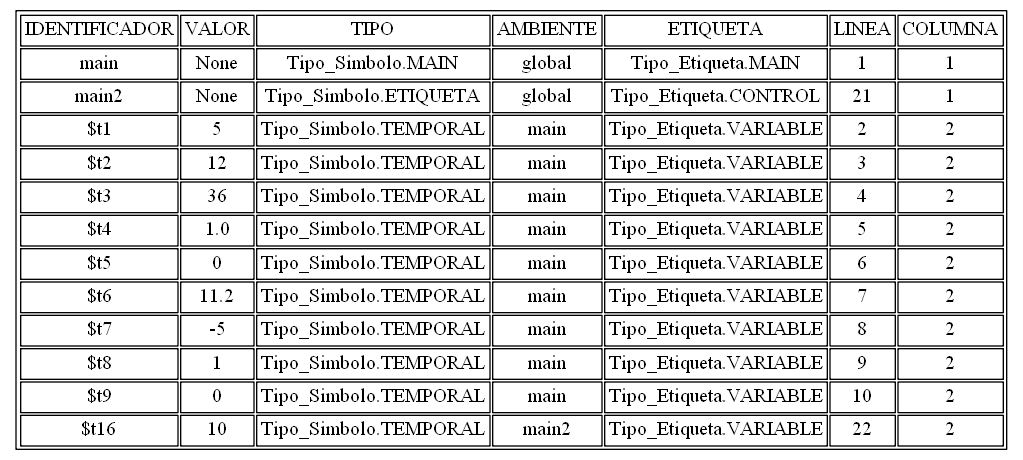
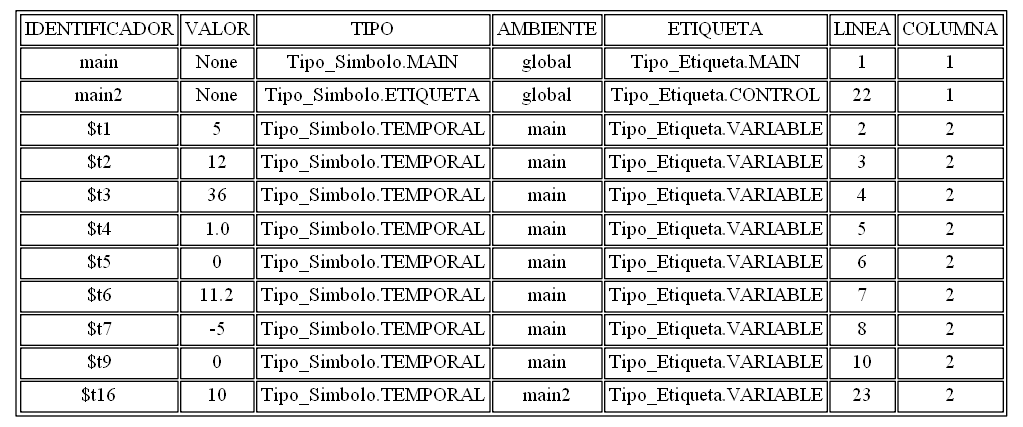
Gramatica 5
unset

diff --git a/Ejecutar.py b/Ejecutar.py
@@ -103,6 +103,7 @@ class Ejecutor(threading.Thread):
             elif isinstance(sentencia, Referencia): self.procesar_referencia(sentencia)
             elif isinstance(sentencia, Goto): exit = self.procesar_goto(sentencia)
             elif isinstance(sentencia, Exit): return True
+            elif isinstance(sentencia, UnSet): self.procesar_unset(sentencia)
             self.ts.graficarSimbolos()
             if exit:
                 return True
@@ -144,6 +145,15 @@ class Ejecutor(threading.Thread):
             self.agregarError("{0} no esta declarad".format(sentencia.id),sentencia.line,sentencia.column)
 
         return False
+    
+    def procesar_unset(self, sentencia):
+        try:
+            if self.ts.existe(sentencia.id):
+                self.ts.delete(sentencia.id)
+            else:
+                self.agregarError("{0} no esta declarad".format(sentencia.id),sentencia.line,sentencia.column)     
+        except:
+            self.agregarError("Error al eliminar",sentencia.line,sentencia.column)
 
 
     def procesar_asignacion(self, sentencia):

diff --git a/Gramatica.py b/Gramatica.py
@@ -312,6 +312,7 @@ def p_sentencia(p):
                     | preferencia
                     | pgoto
                     | pexit
+                    | punset
     '''
     p[0] = p[1]
 
@@ -353,6 +354,16 @@ def p_psalir(p):
     p[0] = Nodo(Exit(p.lineno(1),find_column(p.slice[1])), nodo)
     print('sentencia: pexit; { sentencia = pexit}')
     
+def p_punset(p):
+    'punset  :   UNSET PARIZQ VARIABLE PARDER PYCOMA'
+    nodo = NodoG(getIndex(),"punset",[])
+    nodo.add(NodoG(getIndex(),"unset", None))
+    nodo.add(NodoG(getIndex(),"(", None))
+    nodo.add(NodoG(getIndex(),p[3], None))
+    nodo.add(NodoG(getIndex(),")", None))
+    nodo.add(NodoG(getIndex(),";", None))
+    p[0] = Nodo(UnSet(p[3],p.lineno(1),find_column(p.slice[1])), nodo)
+    print('sentencia: punset; { sentencia = punset}')
     
 
 def p_operaciones(p):

diff --git a/prueba.py b/prueba.py
@@ -90,22 +90,7 @@ while contador <= 100:
        print(contador)
 print("TIEMPO EXCEDIDO DE LECTURA")'''
 
-
-from PyQt5 import QtCore, QtWidgets
-
-class PlainTextEdit(QtWidgets.QPlainTextEdit):
-       def keyPressEvent(self, event):
-              if event.key() == QtCore.Qt.Key_Return:
-                     salida = self.toPlainText()
-                     lineas = salida.split("\n")
-                     print (lineas[len(lineas)-1])
-              if event.key() == QtCore.Qt.Key_Backspace:
-                     print("Backspace pressed")
-              super(PlainTextEdit, self).keyPressEvent(event)
-
-if __name__ == '__main__':
-    import sys
-    app = QtWidgets.QApplication(sys.argv)
-    w = PlainTextEdit()
-    w.show()
-    sys.exit(app.exec_())
+lst = {'1':3,'11':2,'12':4}
+print(lst)
+del lst['1']
+print(lst)

diff --git a/TablaSimbolos.py b/TablaSimbolos.py
@@ -67,6 +67,8 @@ class TablaSimbolos:
         self.simbolos[simbolo.id].valor.set(simbolo.valor.get())  
     def copy(self,id,simbolo):
         self.simbolos[id] = simbolo
+    def delete(self,id):
+        del self.simbolos[id]
     #Metodo que indica si existe variable en la tabla de simbolos
     def existe(self, id):
         return id in self.simbolos

diff --git a/Instruccion.py b/Instruccion.py
@@ -114,6 +114,10 @@ class Exit(Instruccion):
         self.line = line
         self.column = column
 
-
+class UnSet(Instruccion):
+    def __init__(self, id,line, column):
+        self.id = id
+        self.line = line
+        self.column = column
 
 
